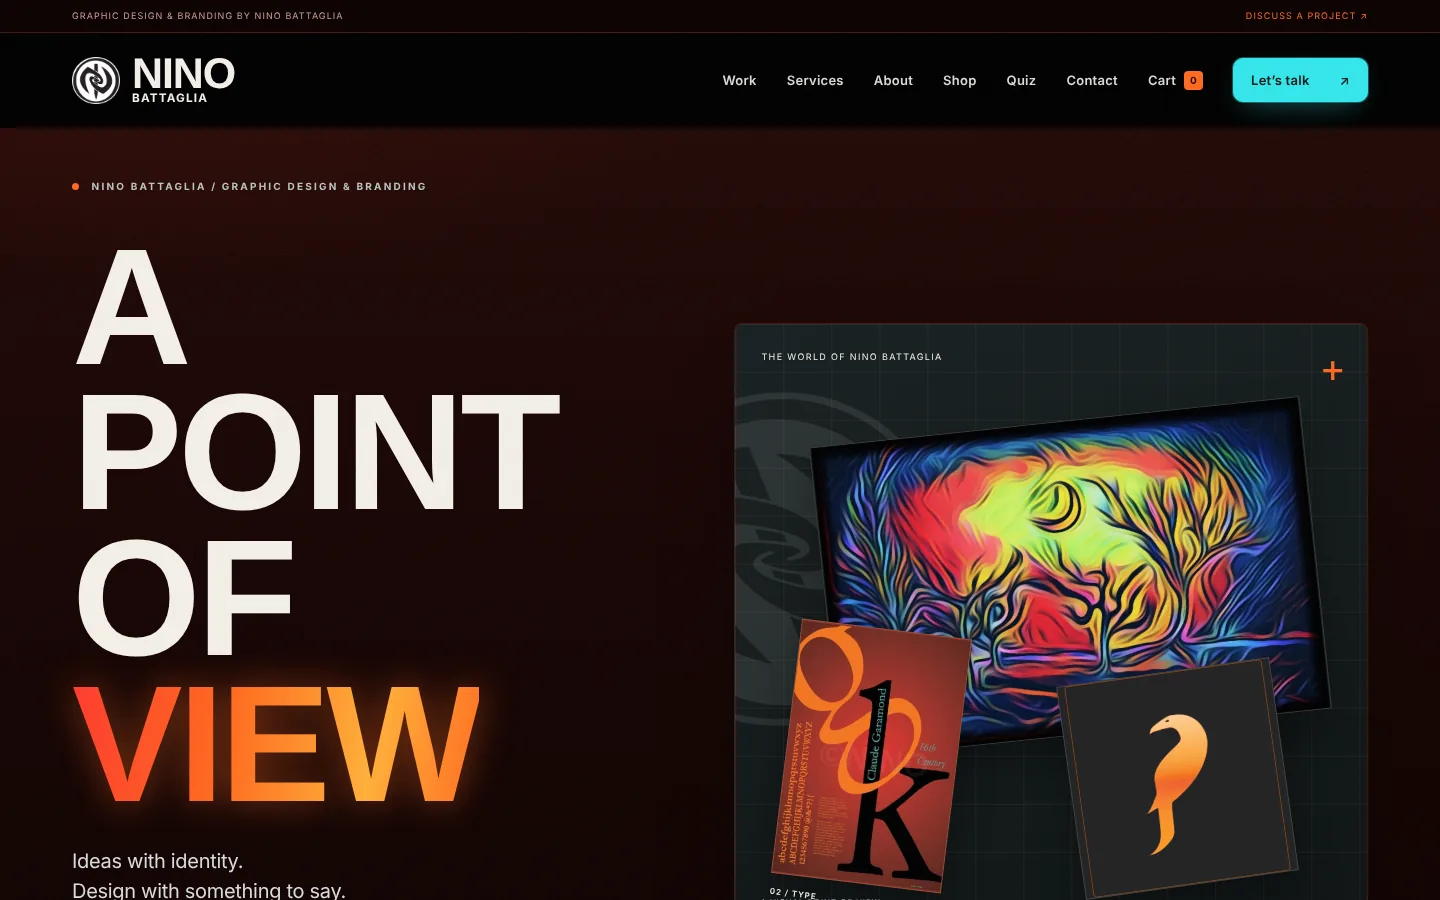
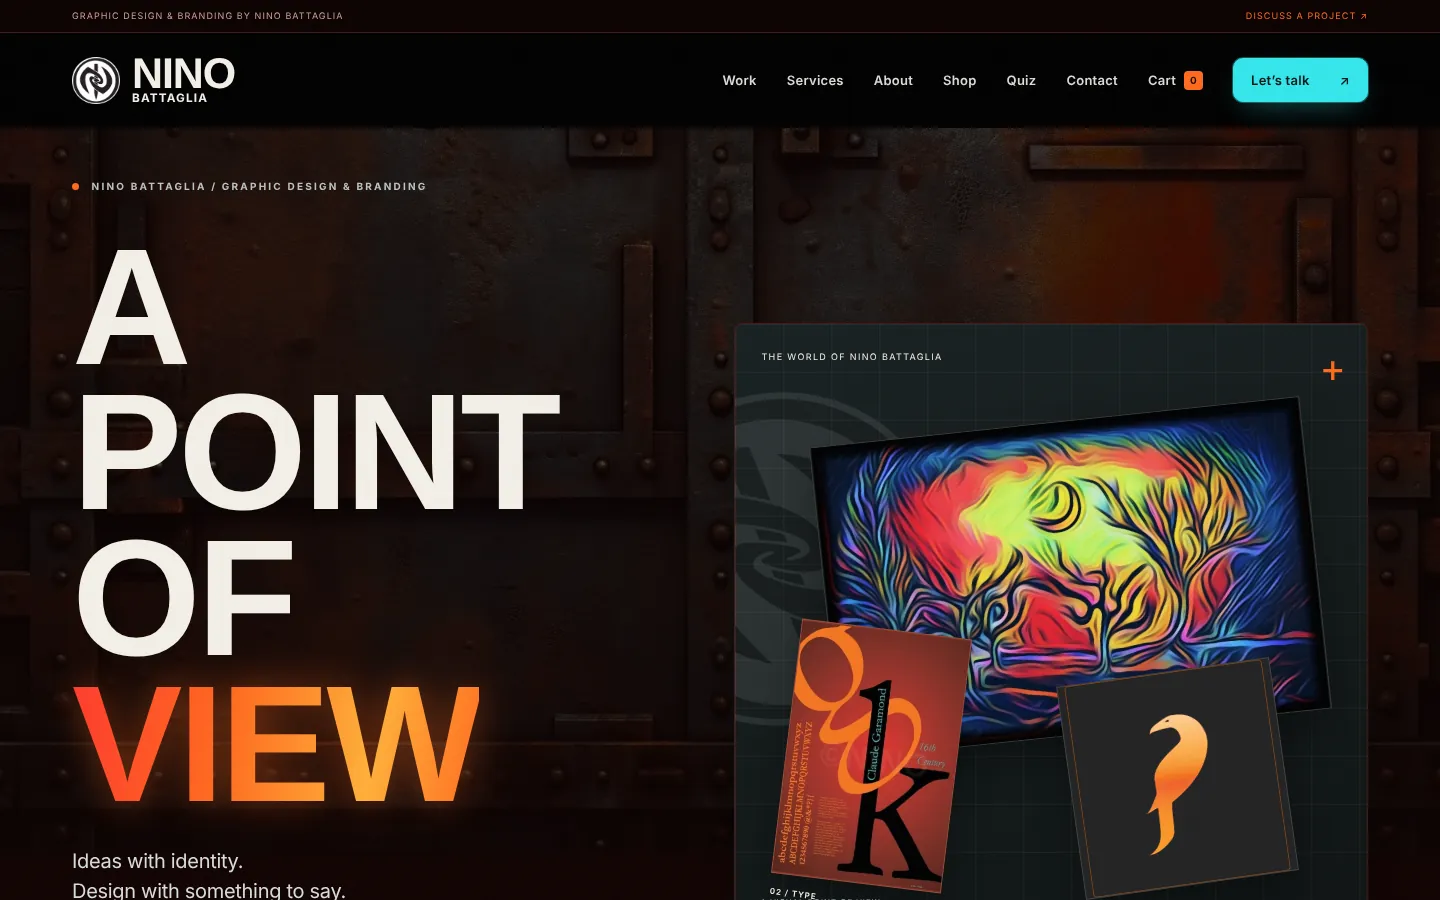
Our Work: retake Nino screenshots with the new metal background
Claude-Session: https://claude.ai/code/session_01QmgeadufKhLJJVSKiN7kLE

diff --git a/work-nino.html b/work-nino.html
@@ -34,7 +34,7 @@
         <a class="nav-cta" href="contact.html">Start</a>
       </nav>
     </div>
-  </header><main id="main-content" tabindex="-1"><section class="project-intro"><div class="container"><a class="project-back" href="portfolio.html">← All our work</a><div class="project-lead-grid"><div><span class="pill">Personal brand · Website design</span><h1>Nino Battaglia</h1><p>A personal brand website for a graphic designer and illustrator: a bold “A Point of View” homepage, selected work, design services, and a shop for his artwork on shirts.</p><a class="project-full-link" href="https://ninobattaglia.com/" target="_blank" rel="noopener">Visit Nino’s Website <span aria-hidden="true">↗</span></a></div><img class="project-lead-image" src="assets/work/nino-live-desktop.webp?v=20261026" alt="Nino Battaglia’s website homepage with a dark red background, the headline A Point of View, and a collage of his artwork" width="1440" height="900"></div></div></section><section class="container project-section"><div class="project-story-grid"><article><h2>Project focus</h2><p>Give an artist’s own visual language the lead role, while making his work, services, and shirt shop easy to explore.</p></article><article><h2>What the site includes</h2><ul><li>A homepage led by the headline “A Point of View” and a collage of Nino’s artwork.</li><li>Selected work and design services: branding and identity, graphic design, illustration, and apparel graphics.</li><li>A shirt shop with his artwork on apparel, a “Which Nino shirt are you?” quiz, and a cart.</li><li>Clear routes to contact Nino and discuss a project.</li></ul></article><article><h2>Design choices</h2><p>A dark, high-contrast layout with large type and a warm orange accent lets the artwork stand out instead of acting as decoration. The same look and navigation carry across desktop and mobile.</p></article></div></section><section class="container project-section" aria-labelledby="views-title"><header class="project-section-head"><h2 id="views-title">The website on desktop and mobile</h2><p>Screenshots of ninobattaglia.com on desktop and mobile.</p></header><div class="project-view-grid"><figure><img src="assets/work/nino-live-desktop.webp?v=20261026" alt="Nino Battaglia’s website on a desktop screen" width="1440" height="900" loading="lazy"><figcaption>Desktop view · ninobattaglia.com</figcaption></figure><figure class="project-mobile-view"><img src="assets/work/nino-live-mobile.webp?v=20261026b" alt="Nino Battaglia’s website on a mobile screen" width="390" height="844" loading="lazy"><figcaption>Mobile view · ninobattaglia.com</figcaption></figure></div></section><section class="project-next"><div class="container"><h2>What could we build for you?</h2><p>We agree on the work, required materials, price, and delivery before a custom project begins.</p><div class="hero-actions"><a class="btn primary" href="contact.html?service=website#inquiry">Discuss Your Website & Brand</a><a class="btn ghost" href="website-design.html">Explore This Service</a></div></div></section></main><footer class="footer">
+  </header><main id="main-content" tabindex="-1"><section class="project-intro"><div class="container"><a class="project-back" href="portfolio.html">← All our work</a><div class="project-lead-grid"><div><span class="pill">Personal brand · Website design</span><h1>Nino Battaglia</h1><p>A personal brand website for a graphic designer and illustrator: a bold “A Point of View” homepage, selected work, design services, and a shop for his artwork on shirts.</p><a class="project-full-link" href="https://ninobattaglia.com/" target="_blank" rel="noopener">Visit Nino’s Website <span aria-hidden="true">↗</span></a></div><img class="project-lead-image" src="assets/work/nino-live-desktop.webp?v=20261026c" alt="Nino Battaglia’s website homepage with a rusted metal background, the headline A Point of View, and a collage of his artwork" width="1440" height="900"></div></div></section><section class="container project-section"><div class="project-story-grid"><article><h2>Project focus</h2><p>Give an artist’s own visual language the lead role, while making his work, services, and shirt shop easy to explore.</p></article><article><h2>What the site includes</h2><ul><li>A homepage led by the headline “A Point of View” and a collage of Nino’s artwork.</li><li>Selected work and design services: branding and identity, graphic design, illustration, and apparel graphics.</li><li>A shirt shop with his artwork on apparel, a “Which Nino shirt are you?” quiz, and a cart.</li><li>Clear routes to contact Nino and discuss a project.</li></ul></article><article><h2>Design choices</h2><p>A dark, high-contrast layout with large type and a warm orange accent lets the artwork stand out instead of acting as decoration. The same look and navigation carry across desktop and mobile.</p></article></div></section><section class="container project-section" aria-labelledby="views-title"><header class="project-section-head"><h2 id="views-title">The website on desktop and mobile</h2><p>Screenshots of ninobattaglia.com on desktop and mobile.</p></header><div class="project-view-grid"><figure><img src="assets/work/nino-live-desktop.webp?v=20261026c" alt="Nino Battaglia’s website on a desktop screen" width="1440" height="900" loading="lazy"><figcaption>Desktop view · ninobattaglia.com</figcaption></figure><figure class="project-mobile-view"><img src="assets/work/nino-live-mobile.webp?v=20261026c" alt="Nino Battaglia’s website on a mobile screen" width="390" height="844" loading="lazy"><figcaption>Mobile view · ninobattaglia.com</figcaption></figure></div></section><section class="project-next"><div class="container"><h2>What could we build for you?</h2><p>We agree on the work, required materials, price, and delivery before a custom project begins.</p><div class="hero-actions"><a class="btn primary" href="contact.html?service=website#inquiry">Discuss Your Website & Brand</a><a class="btn ghost" href="website-design.html">Explore This Service</a></div></div></section></main><footer class="footer">
   <div class="container footer-inner">
     <div class="footer-copy">© 2019–2026 MENU-MADE</div>
 

diff --git a/portfolio.html b/portfolio.html
@@ -78,7 +78,7 @@
         </article>
         <article class="work-card">
           <a class="work-visual" href="work-nino.html" aria-label="Read the Nino Battaglia website project">
-            <img src="assets/work/nino-website.webp?v=20261026" alt="Nino Battaglia graphic design and branding website, with the headline A Point of View and a collage of his artwork" width="1000" height="544" loading="lazy">
+            <img src="assets/work/nino-website.webp?v=20261026c" alt="Nino Battaglia graphic design and branding website, with the headline A Point of View and a collage of his artwork" width="1000" height="544" loading="lazy">
           </a>
           <div class="work-copy">
             <p class="work-type">Personal brand · Website design</p>
